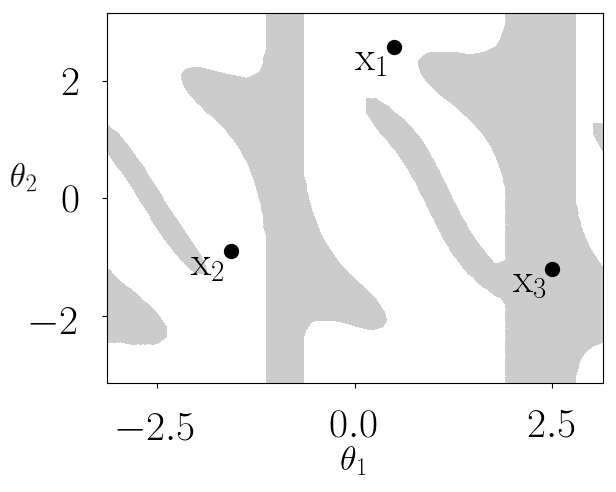
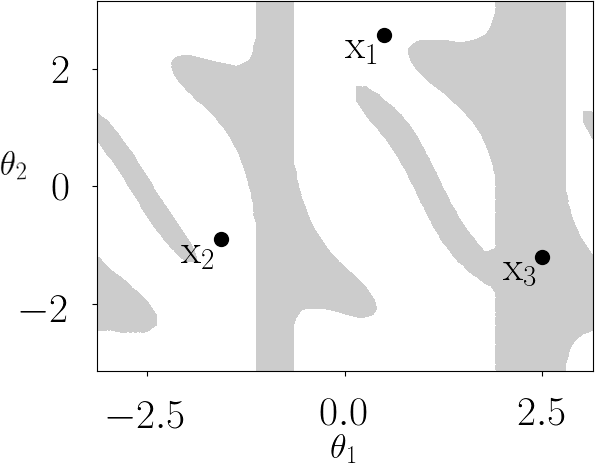
Add quotient-space visualizations

diff --git a/visualize_quotient_space.py b/visualize_quotient_space.py
@@ -1,0 +1,127 @@
+import sys
+import numpy as np
+from src.cspace_visualizer import *
+from worlds import manipulator_2dof as World
+from matplotlib.ticker import MaxNLocator
+
+world = World.Manipulator2dof()
+worldName = world.getName()
+
+c1 = (0.9,0.9,0.9)
+c2 = (0.7,0.7,0.7)
+c3 = (0.5,0.5,0.5)
+
+N = 150
+q1 = np.linspace(-np.pi,np.pi,N)
+q2 = np.linspace(-np.pi,np.pi,N)
+P1 = []
+P2 = []
+M = np.zeros((q1.shape[0], q2.shape[0]))
+for i in range(q1.shape[0]):
+  for j in range(q2.shape[0]):
+    q = np.array((q1[i],q2[j]))
+    if not world.isFeasible(q):
+      M[i,j] = 1
+      P1 = np.append(P1,q1[i])
+      P2 = np.append(P2,q2[j])
+
+infeasibleColumns = np.sum(M,axis=1)>=N
+Q1 = []
+Q2 = []
+for i in range(q1.shape[0]):
+  for j in range(q2.shape[0]):
+    q = np.array((q1[i],q2[j]))
+    if infeasibleColumns[i]:
+      Q1 = np.append(Q1,q1[i])
+      Q2 = np.append(Q2,q2[j])
+
+font_size = 25
+offset = 0.5
+p1 = np.array([0.5,2.57])
+p2 = np.array([-1.57,-0.9])
+p3 = np.array([2.5,-1.2])
+symbol='x'
+greyshade = 0.75
+
+x1loc= (p1[0]-offset,p1[1]-offset)
+x2loc= (p3[0]-offset,p3[1]-offset)
+y1loc= (p1[0]-offset,-offset)
+y2loc= (p3[0]-offset,-offset)
+fiber1loc= (p1[0]-1.6,1.5)
+fiber2loc= (p3[0]-1.6,1.5)
+############################################################
+fig = plt.figure(0)
+fig.patch.set_facecolor('white')
+ax = fig.gca()
+ax.set_xlabel(r'\theta_1',fontsize=font_size)
+ax.set_ylabel(r'\theta_2',rotation=1.57,fontsize=font_size)
+ax.tick_params(axis='both', which='major', pad=10, labelsize=0.8*font_size)
+
+lim=3.14
+plt.axis([-lim,lim,-lim,lim])
+
+ax.annotate(r'x_1', x1loc)
+ax.annotate(r'x_2', x2loc)
+plt.plot(p1[0],p1[1],'o',color='black',markersize=10)
+plt.plot(p3[0],p3[1],'o',color='black',markersize=10)
+
+ax.xaxis.set_major_locator(MaxNLocator(integer=True))
+ax.yaxis.set_major_locator(MaxNLocator(integer=True))
+plotCSpaceDelaunayGrey(P1,P2,shade=greyshade)
+plt.savefig("images/"+worldName+"_cspace_1.png", bbox_inches='tight')
+
+############################################################
+
+fig = plt.figure(1)
+fig.patch.set_facecolor('white')
+ax = fig.gca()
+ax.set_xlabel(r'\theta_1',fontsize=font_size)
+ax.set_ylabel(r'\theta_2',rotation=1.57,fontsize=font_size)
+ax.tick_params(axis='both', which='major', pad=10, labelsize=0.8*font_size)
+
+lim=3.14
+plt.axis([-lim,lim,-lim,lim])
+
+ax.annotate(r'y_1', y1loc)
+ax.annotate(r'y_2', y2loc)
+plt.plot(p1[0],0,'o',color='black',markersize=10)
+plt.plot(p3[0],0,'o',color='black',markersize=10)
+
+ax.xaxis.set_major_locator(MaxNLocator(integer=True))
+ax.yaxis.set_major_locator(MaxNLocator(integer=True))
+plt.axvline(p1[0], color='k', linestyle='dashed', linewidth=1)
+plt.axvline(p3[0], color='k', linestyle='dashed', linewidth=1)
+plt.axhline(0, color='k', linewidth=1)
+
+plotCSpaceDelaunayGrey(Q1,Q2,shade=greyshade)
+plt.savefig("images/"+worldName+"_cspace_2.png", bbox_inches='tight')
+#############################################################
+fig = plt.figure(2)
+fig.patch.set_facecolor('white')
+ax = fig.gca()
+ax.set_xlabel(r'\theta_1',fontsize=font_size)
+ax.set_ylabel(r'\theta_2',rotation=1.57,fontsize=font_size)
+ax.tick_params(axis='both', which='major', pad=10, labelsize=0.8*font_size)
+lim=3.14
+plt.axis([-lim,lim,-lim,lim])
+
+plt.plot(p1[0],0,'o',color='black',markersize=10)
+plt.plot(p3[0],0,'o',color='black',markersize=10)
+
+plt.plot(p1[0],p1[1],'o',color='black',markersize=10)
+plt.plot(p3[0],p3[1],'o',color='black',markersize=10)
+
+ax.xaxis.set_major_locator(MaxNLocator(integer=True))
+ax.yaxis.set_major_locator(MaxNLocator(integer=True))
+
+f1 = ax.annotate(r'\pi^{-1}(y_1)', fiber1loc, rotation=1.57)
+f2 = ax.annotate(r'\pi^{-1}(y_2)', fiber2loc, rotation=1.57)
+plt.axvline(p1[0], color='k', linestyle='solid', linewidth=2)
+plt.axvline(p3[0], color='k', linestyle='solid', linewidth=2)
+plt.axhline(0, color='k', linewidth=1)
+
+plotCSpaceDelaunayGrey(P1,P2,shade=0.88)
+plotCSpaceDelaunayGrey(Q1,Q2,shade=greyshade)
+plt.savefig("images/"+worldName+"_cspace_3.png", bbox_inches='tight')
+#############################################################
+plt.show()

diff --git a/worlds/manipulator_2dof.py b/worlds/manipulator_2dof.py
@@ -4,13 +4,13 @@ import numpy as np
 import matplotlib.pyplot as plt
 from src.distance_point_line import DistPointLine
 
-GRAY = (0.8,0.8,0.8)
-R1=0.05
-link_width=10
-L1 = 0.5
-L2 = 0.5
-
 class Manipulator2dof(World):
+  COLOR = (0.8,0.8,0.8) 
+  R1=0.05 #radius of joint
+  LINK_WIDTH=10 #width of both links
+  L1 = 0.5 #link length 1
+  L2 = 0.5 #link length 2
+
 
   def getObstacleSpheres(self):
     R1 = 0.25
@@ -45,10 +45,10 @@ class Manipulator2dof(World):
     x = np.zeros((3,2))
     x[0,0]=0
     x[0,1]=0
-    x[1,0]=L1*np.cos(q[0])
-    x[1,1]=L1*np.sin(q[0])
-    x[2,0]=L1*np.cos(q[0])+L2*np.cos(q[0]+q[1])
-    x[2,1]=L1*np.sin(q[0])+L2*np.sin(q[0]+q[1])
+    x[1,0]=self.L1*np.cos(q[0])
+    x[1,1]=self.L1*np.sin(q[0])
+    x[2,0]=self.L1*np.cos(q[0])+self.L2*np.cos(q[0]+q[1])
+    x[2,1]=self.L1*np.sin(q[0])+self.L2*np.sin(q[0]+q[1])
     return x
 
   def distanceToSphere(self, q, x_sphere, y_sphere, r_sphere):
@@ -69,27 +69,27 @@ class Manipulator2dof(World):
   def plotJoint(self, ax, x, y, R):
     c=plt.Circle((x,y),R+R/3.0,color='black',zorder=2)
     ax.add_artist(c)
-    c=plt.Circle((x,y),R,color=GRAY,zorder=3)
+    c=plt.Circle((x,y),R,color=self.COLOR,zorder=3)
     ax.add_artist(c)
     c=plt.Circle((x,y),R-R/2.0,color='black',zorder=4)
     ax.add_artist(c)
 
-  def plotRobotAtConfig(self, ax,q):
+  def plotRobotAtConfig(self, ax, q):
 
     x = self.getWorldPositions(q)
-    self.plotJoint(ax,x[0,0],x[0,1],3.0/2.0*R1)
-    self.plotJoint(ax,x[1,0],x[1,1],R1)
-    self.plotJoint(ax,x[2,0],x[2,1],R1)
-    plt.plot(x[:,0],x[:,1],color='black',linewidth=link_width+link_width/2.0,zorder=1)
-    plt.plot(x[:,0],x[:,1],color=GRAY,linewidth=link_width,zorder=1)
+    self.plotJoint(ax,x[0,0],x[0,1],3.0/2.0*self.R1)
+    self.plotJoint(ax,x[1,0],x[1,1],self.R1)
+    self.plotJoint(ax,x[2,0],x[2,1],self.R1)
+    plt.plot(x[:,0],x[:,1],color='black',linewidth=self.LINK_WIDTH+self.LINK_WIDTH/2.0,zorder=1)
+    plt.plot(x[:,0],x[:,1],color=self.COLOR,linewidth=self.LINK_WIDTH,zorder=1)
 
-  def plot1DOFAtConfig(self, ax,q):
+  def plot1DOFAtConfig(self, ax, q):
 
     x = self.getWorldPositions(q)
-    self.plotJoint(ax,x[0,0],x[0,1],3.0/2.0*R1)
-    self.plotJoint(ax,x[1,0],x[1,1],R1)
-    plt.plot(x[0:2,0],x[0:2,1],color='black',linewidth=link_width+link_width/2.0,zorder=1)
-    plt.plot(x[0:2,0],x[0:2,1],color=GRAY,linewidth=link_width,zorder=1)
+    self.plotJoint(ax,x[0,0],x[0,1],3.0/2.0*self.R1)
+    self.plotJoint(ax,x[1,0],x[1,1],self.R1)
+    plt.plot(x[0:2,0],x[0:2,1],color='black',linewidth=self.LINK_WIDTH+self.LINK_WIDTH/2.0,zorder=1)
+    plt.plot(x[0:2,0],x[0:2,1],color=self.COLOR,linewidth=self.LINK_WIDTH,zorder=1)
 
   def plotObstacles(self, ax):
 
@@ -98,7 +98,7 @@ class Manipulator2dof(World):
     def plotSphere(ax,x,y,R):
       c=plt.Circle((x,y),R,color='black',zorder=-1)
       ax.add_artist(c)
-      c=plt.Circle((x,y),R-0.02,color=GRAY,zorder=0)
+      c=plt.Circle((x,y),R-0.02,color=self.COLOR,zorder=0)
       ax.add_artist(c)
 
     for k in range(X.shape[0]):

diff --git a/visualize_cspace_and_workspace.py b/visualize_cspace_and_workspace.py
@@ -4,10 +4,10 @@ from src.cspace_visualizer import *
 import os
 if not os.path.exists("images"):
   os.makedirs("images")
-from worlds import manipulator_2dof as Environment
+from worlds import manipulator_2dof as World
 from matplotlib.ticker import MaxNLocator
 
-world = Environment.Manipulator2dof()
+world = World.Manipulator2dof()
 worldName = world.getName()
 N = 200
 
@@ -58,11 +58,11 @@ ax.tick_params(axis='both', which='major', pad=15)
 lim=1.1
 plt.axis([-lim,lim,-lim,lim])
 
-world.GRAY = c1
+world.COLOR = c1
 world.plotRobotAtConfig(ax,p1)
-world.GRAY = c2
+world.COLOR = c2
 world.plotRobotAtConfig(ax,p2)
-world.GRAY = c3
+world.COLOR = c3
 world.plotRobotAtConfig(ax,p3)
 
 w1 = world.getEndeffectorPositions(p1)

diff --git a/README.md b/README.md
@@ -8,7 +8,16 @@ Visualize simple configuration spaces and workspaces
 
 <p align="center">
 
-<img src="https://github.com/aorthey/configuration-space-visualizer/raw/master/examples/manipulator2dof_workspace.png" width="400">
-<img src="https://github.com/aorthey/configuration-space-visualizer/raw/master/examples/manipulator2dof_configuration_space.png" width="400">
+<img src="https://github.com/aorthey/configuration-space-visualizer/raw/master/examples/manipulator2dof_workspace.png" width="380">
+<img src="https://github.com/aorthey/configuration-space-visualizer/raw/master/examples/manipulator2dof_configuration_space.png" width="380">
+ 
+</p>
+     python visualize_quotient_space.py
+
+<p align="center">
+
+<img src="https://github.com/aorthey/configuration-space-visualizer/raw/master/examples/manipulator2dof_cspace_1.png" width="300">
+<img src="https://github.com/aorthey/configuration-space-visualizer/raw/master/examples/manipulator2dof_cspace_2.png" width="300">
+<img src="https://github.com/aorthey/configuration-space-visualizer/raw/master/examples/manipulator2dof_cspace_3.png" width="300">
  
 </p>
